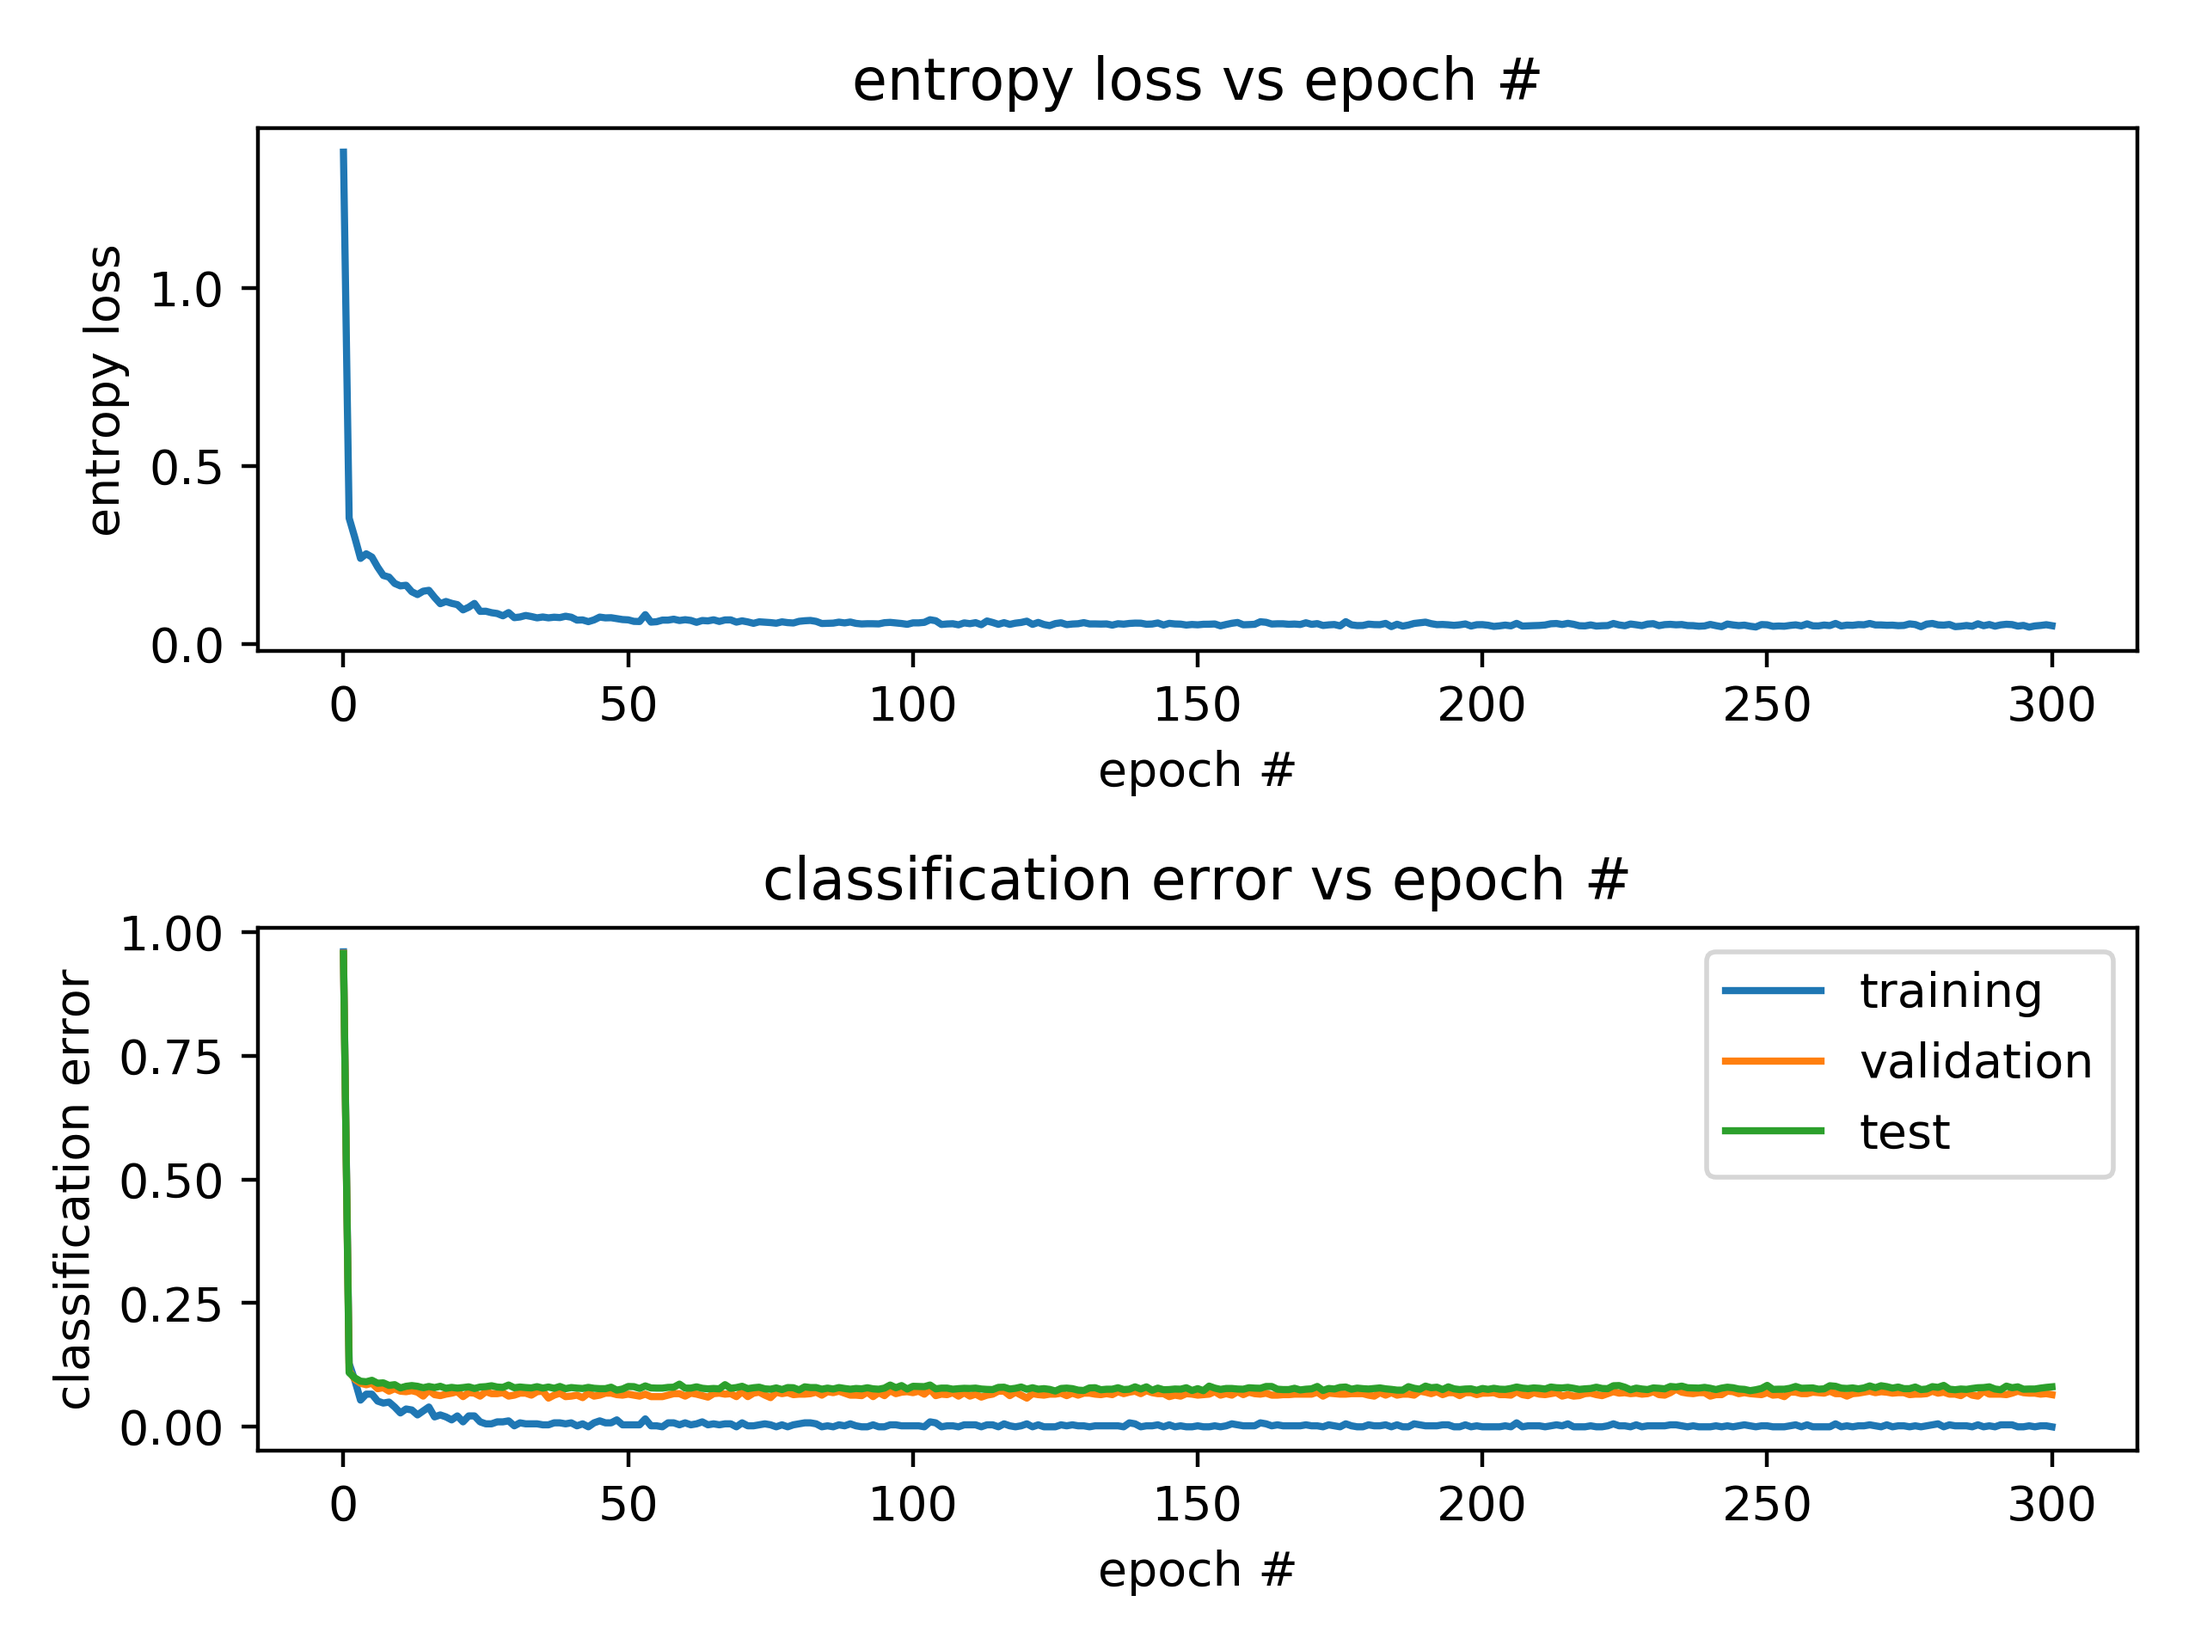
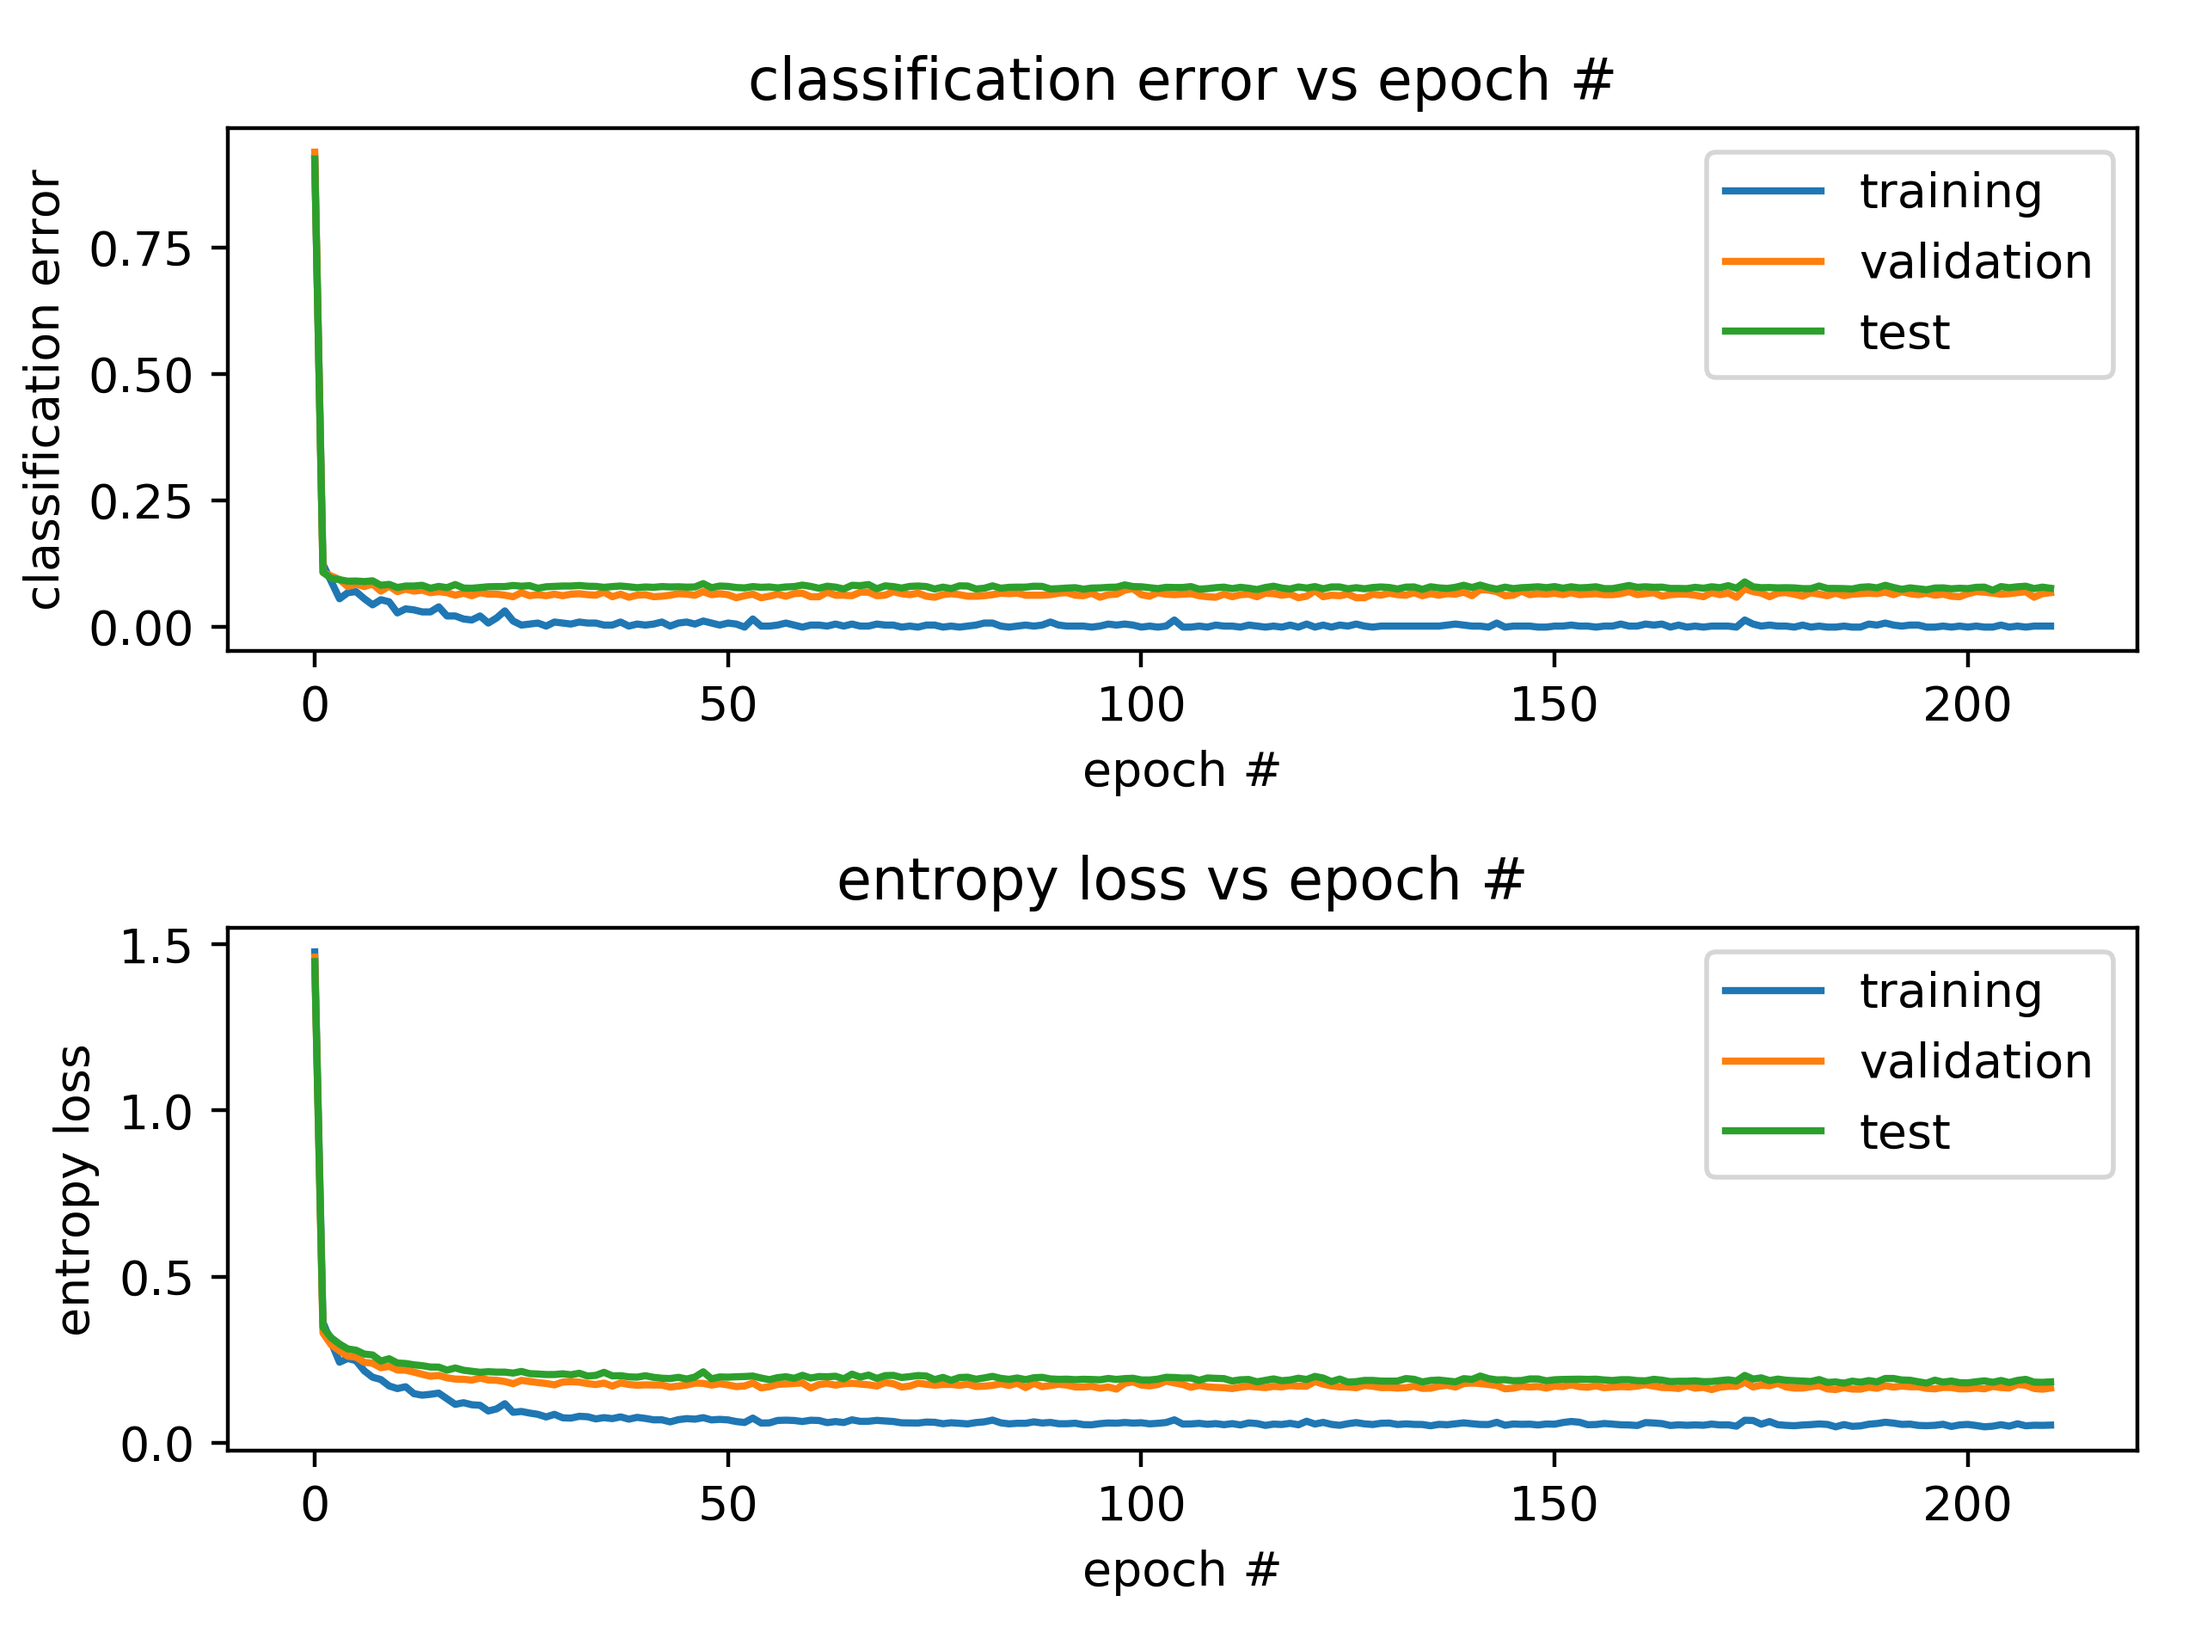
added part 1.1.2 code to plot entropy losses for train, valid and test

diff --git a/part_1_1.py b/part_1_1.py
@@ -15,7 +15,8 @@ def build_layer(X, neuron_num = 1000):
     """
     global layer_num
     with tf.variable_scope("W"):
-        W = tf.get_variable(name="W" + str(layer_num), shape=[X.shape[1], neuron_num], initializer=tf.contrib.layers.xavier_initializer())
+        W = tf.get_variable(name="W" + str(layer_num), shape=[X.shape[1], neuron_num],
+                            initializer=tf.contrib.layers.xavier_initializer())
     b = tf.Variable(tf.zeros([1, neuron_num]), name="bias")
     Sum = tf.matmul(X, W) + b
     layer_num += 1 # give each W a unique name
@@ -119,10 +120,9 @@ def tune_learning_rate():
     plt.show()
 
 
-def compute_errors(sess, X0, Y, S2, loss, batch_X0, batch_Y, valid_data, valid_target_onehot, test_data, test_target_onehot):
-    train_loss, Output = sess.run([loss, S2], feed_dict={
-        X0: batch_X0,
-        Y: batch_Y
+def compute_errors(sess, X0, S2, batch_X0, batch_Y, valid_data, valid_target_onehot, test_data, test_target_onehot):
+    Output = sess.run(S2, feed_dict={
+        X0: batch_X0
     })
 
     with tf.variable_scope("W", reuse=True):
@@ -138,7 +138,27 @@ def compute_errors(sess, X0, Y, S2, loss, batch_X0, batch_Y, valid_data, valid_t
     valid_error = compute_2_layer_error(valid_data, valid_target_onehot, W1, W2)
     test_error = compute_2_layer_error(test_data, test_target_onehot, W1, W2)
 
-    return train_loss, train_error.eval(), valid_error.eval(), test_error.eval()
+    return train_error.eval(), valid_error.eval(), test_error.eval()
+
+
+def compute_losses(sess, loss, X0, Y, X0_train, Y_train, X0_valid, Y_valid, X0_test, Y_test):
+    train_loss = sess.run(loss, feed_dict={
+        X0: X0_train,
+        Y: Y_train
+    })
+
+    valid_loss = sess.run(loss, feed_dict={
+        X0: X0_valid,
+        Y: Y_valid
+    })
+
+    test_loss = sess.run(loss, feed_dict={
+        X0: X0_test,
+        Y: Y_test
+    })
+
+    return train_loss, valid_loss, test_loss
+
 
 
 
@@ -146,11 +166,13 @@ def train_no_early_stopping():
     train_data, train_target, valid_data, valid_target, test_data, test_target = load_data()
     valid_target_onehot = tf.one_hot(valid_target, 10)
     test_target_onehot = tf.one_hot(test_target, 10)
+    np_valid_data = valid_data
+    np_test_data = test_data
     valid_data = tf.cast(valid_data, tf.float32)
     test_data = tf.cast(test_data, tf.float32)
 
     batch_size = 500
-    num_iterations = 9000
+    num_iterations = 6300
     num_train = train_data.shape[0]
     num_batches = num_train // batch_size
     num_epochs = num_iterations // num_batches
@@ -161,10 +183,13 @@ def train_no_early_stopping():
 
     X0, Y, S2, loss, optimizer = build_2_layer_NN()
     init = tf.global_variables_initializer()
-    train_loss_list = []
+
     train_error_list = []
     valid_error_list = []
     test_error_list = []
+    train_loss_list = []
+    valid_loss_list = []
+    test_loss_list = []
 
     with tf.Session() as sess:
         sess.run(init)
@@ -172,21 +197,26 @@ def train_no_early_stopping():
         # sample epoch 0
         batch_X0 = train_data[0:batch_size]
         batch_Y = train_target[0:batch_size]
-        train_loss, train_error, valid_error, test_error = compute_errors(sess, X0, Y, S2, loss, batch_X0, batch_Y,
+        train_error, valid_error, test_error = compute_errors(sess, X0, S2, batch_X0, batch_Y,
                                                                           valid_data, valid_target_onehot,
                                                                           test_data, test_target_onehot)
+        train_loss, valid_loss, test_loss = compute_losses(sess, loss, X0, Y, batch_X0, batch_Y, np_valid_data,
+                                                           valid_target, np_test_data, test_target)
         print("initial loss:", train_loss)
-        train_loss_list.append(train_loss)
+
         train_error_list.append(train_error)
         valid_error_list.append(valid_error)
         test_error_list.append(test_error)
+        train_loss_list.append(train_loss)
+        valid_loss_list.append(valid_loss)
+        test_loss_list.append(test_loss)
 
         shuffled_inds = np.arange(num_train)
 
         prev_valid_error = 100000000
-        prev_test_error = 100000000
-        valid_inc = 0
-        test_inc = 0
+        prev_valid_loss = 100000000
+        valid_error_inc = 0
+        valid_loss_inc = 0
         for epoch in range(num_epochs):
 
             np.random.shuffle(shuffled_inds)
@@ -201,60 +231,72 @@ def train_no_early_stopping():
                     Y: batch_Y
                 })
 
-            train_loss, train_error, valid_error, test_error = compute_errors(sess, X0, Y, S2, loss, batch_X0, batch_Y,
+            train_error, valid_error, test_error = compute_errors(sess, X0, S2, batch_X0, batch_Y,
                                                                               valid_data, valid_target_onehot,
                                                                               test_data, test_target_onehot)
-            train_loss_list.append(train_loss)
+
+            train_loss, valid_loss, test_loss = compute_losses(sess, loss, X0, Y, batch_X0, batch_Y,
+                                                               np_valid_data, valid_target, np_test_data, test_target)
+
             train_error_list.append(train_error)
             valid_error_list.append(valid_error)
             test_error_list.append(test_error)
+            train_loss_list.append(train_loss)
+            valid_loss_list.append(valid_loss)
+            test_loss_list.append(test_loss)
 
             # check for early stopping points
-            if valid_inc > -1:
+            if valid_error_inc > -1:
                 if valid_error >= prev_valid_error:
-                    valid_inc += 1
+                    valid_error_inc += 1
                 else:
-                    valid_inc = 0
-                if valid_inc == 5:
-                    valid_inc = -1 if epoch > 100 else 0
+                    valid_error_inc = 0
+                if valid_error_inc == 5:
+                    valid_error_inc = -1
                     with open("part_1_1_3.txt", "a") as file:
                         file.write("\n" + strftime("%Y-%m-%d %H:%M:%S", gmtime()) + "\n")
-                        file.write("valid early stop pt at epoch: " + str(epoch))
+                        file.write("valid error early stop pt at epoch: " + str(epoch) + "\n")
+                        file.write("train error: " + str(train_error) +
+                                   " valid error: " + str(valid_error) +
+                                   " test error: " + str(test_error) + "\n")
 
-            if test_inc > -1:
-                if test_error >= prev_test_error:
-                    test_inc += 1
+            if valid_loss_inc > -1:
+                if valid_loss >= prev_valid_loss:
+                    valid_loss_inc += 1
                 else:
-                    test_inc = 0
-                if test_inc == 5:
-                    test_inc = -1 if epoch > 100 else 0
+                    valid_loss_inc = 0
+                if valid_loss_inc == 5:
+                    valid_loss_inc = -1
                     with open("part_1_1_3.txt", "a") as file:
                         file.write("\n" + strftime("%Y-%m-%d %H:%M:%S", gmtime()) + "\n")
-                        file.write("test early stop pt at epoch: " + str(epoch))
+                        file.write("valid loss early stop pt at epoch: " + str(epoch) + "\n")
+                        file.write("train loss: " + str(train_loss) +
+                                   " valid loss: " + str(valid_loss) +
+                                   " test loss: " + str(test_loss) + "\n")
 
             prev_valid_error = valid_error
-            prev_test_error = test_error
+            prev_valid_loss = valid_loss
 
             if epoch % 10 == 0:
-                print("training loss:", train_loss)
-                print("valid classficiation error:", valid_error)
+                print("valid error:", valid_error)
+                print("valid loss:", valid_loss)
 
-        print("final training loss:", train_loss_list[-1])
         print("final training classification error:", train_error_list[-1])
         print("final validation classification error:", valid_error_list[-1])
         print("final test classification error:", test_error_list[-1])
+        print("final training loss:", train_loss_list[-1])
+        print("final valid loss:", valid_loss_list[-1])
+        print("final test loss:", test_loss_list[-1])
         with open("part_1_1_2.txt", "a") as file:
             file.write("\n" + strftime("%Y-%m-%d %H:%M:%S", gmtime()) + "\n")
-            file.write("final training loss: " +str(train_loss_list[-1]) + "\n")
             file.write("final training classification error: " + str(train_error_list[-1]) + "\n")
             file.write("final validation classification error: " + str(valid_error_list[-1]) + "\n")
             file.write("final test classification error:" + str(test_error_list[-1]) + "\n")
+            file.write("final training loss: " + str(train_loss_list[-1]) + "\n")
+            file.write("final valid loss: " + str(valid_loss_list[-1]) + "\n")
+            file.write("final test loss: " + str(test_loss_list[-1]) + "\n")
+
         plt.subplot(2, 1, 1)
-        plt.plot(train_loss_list)
-        plt.xlabel("epoch #")
-        plt.ylabel("entropy loss")
-        plt.title("entropy loss vs epoch #")
-        plt.subplot(2, 1, 2)
         plt.plot(train_error_list)
         plt.plot(valid_error_list)
         plt.plot(test_error_list)
@@ -262,9 +304,16 @@ def train_no_early_stopping():
         plt.ylabel("classification error")
         plt.title("classification error vs epoch #")
         plt.legend(["training", "validation", "test"])
+        plt.subplot(2, 1, 2)
+        plt.plot(train_loss_list)
+        plt.plot(valid_loss_list)
+        plt.plot(test_loss_list)
+        plt.xlabel("epoch #")
+        plt.ylabel("entropy loss")
+        plt.title("entropy loss vs epoch #")
+        plt.legend(["training", "validation", "test"])
         plt.tight_layout()
         plt.savefig("part_1_1_2", dpi=400)
-        plt.show()
         plt.gcf().clear()
 
 

diff --git a/part_1_2.py b/part_1_2.py
@@ -68,6 +68,9 @@ def tune_num_of_hidden_units():
 
             print("final validation classification error:", valid_error_list[-1])
 
+            with open("part_1_2_1.txt", "a") as file:
+                file.write("\n" + strftime("%Y-%m-%d %H:%M:%S", gmtime()) + "\n")
+
             # save model
             for best in best_models:
                 with open("part_1_2_1.txt", "a") as file:
@@ -77,7 +80,6 @@ def tune_num_of_hidden_units():
                 np.save(str(hidden_num) + "_best_W2_at" + str(best[0]) + ".npy", best[-1][1])
 
             with open("part_1_2_1.txt", "a") as file:
-                file.write("\n" + strftime("%Y-%m-%d %H:%M:%S", gmtime()) + "\n")
                 file.write(str(hidden_num) + "final validation classification error: " + str(valid_error_list[-1]) + "\n")
 
             plt.plot(valid_error_list)
